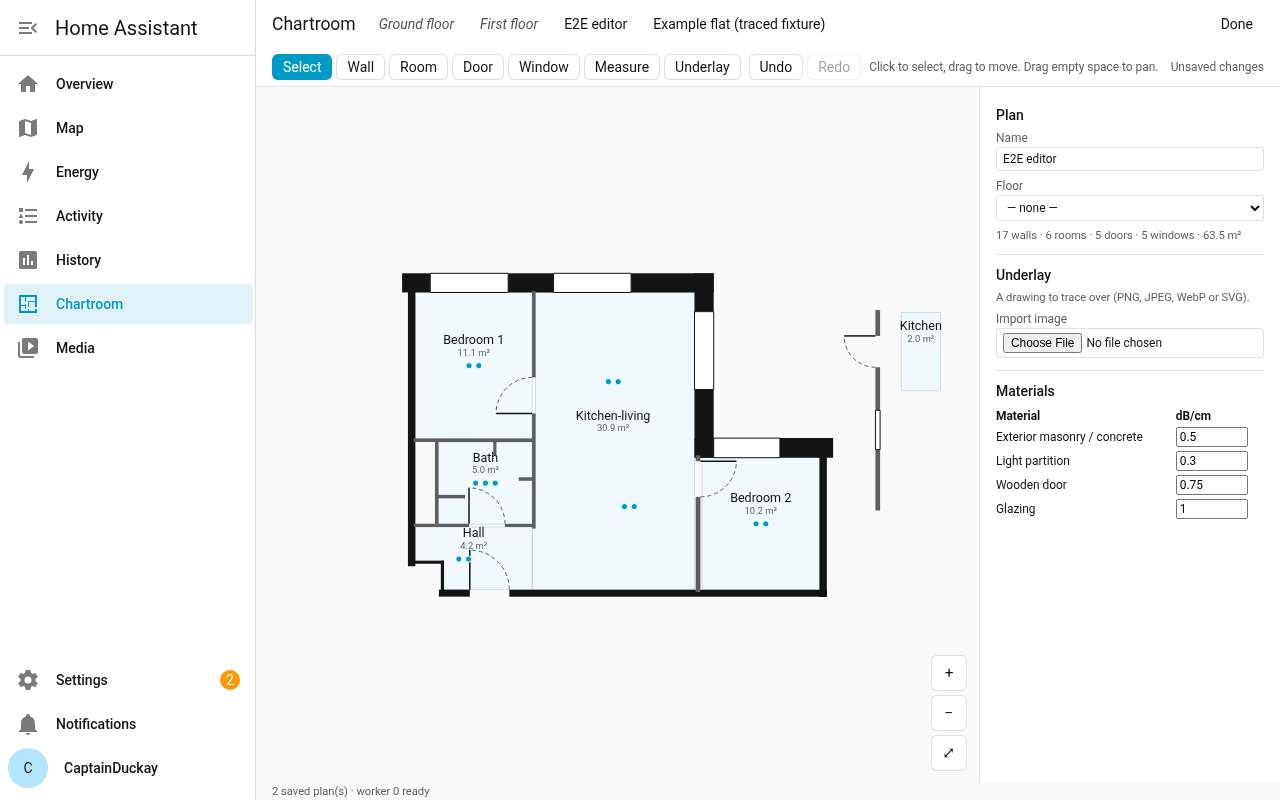
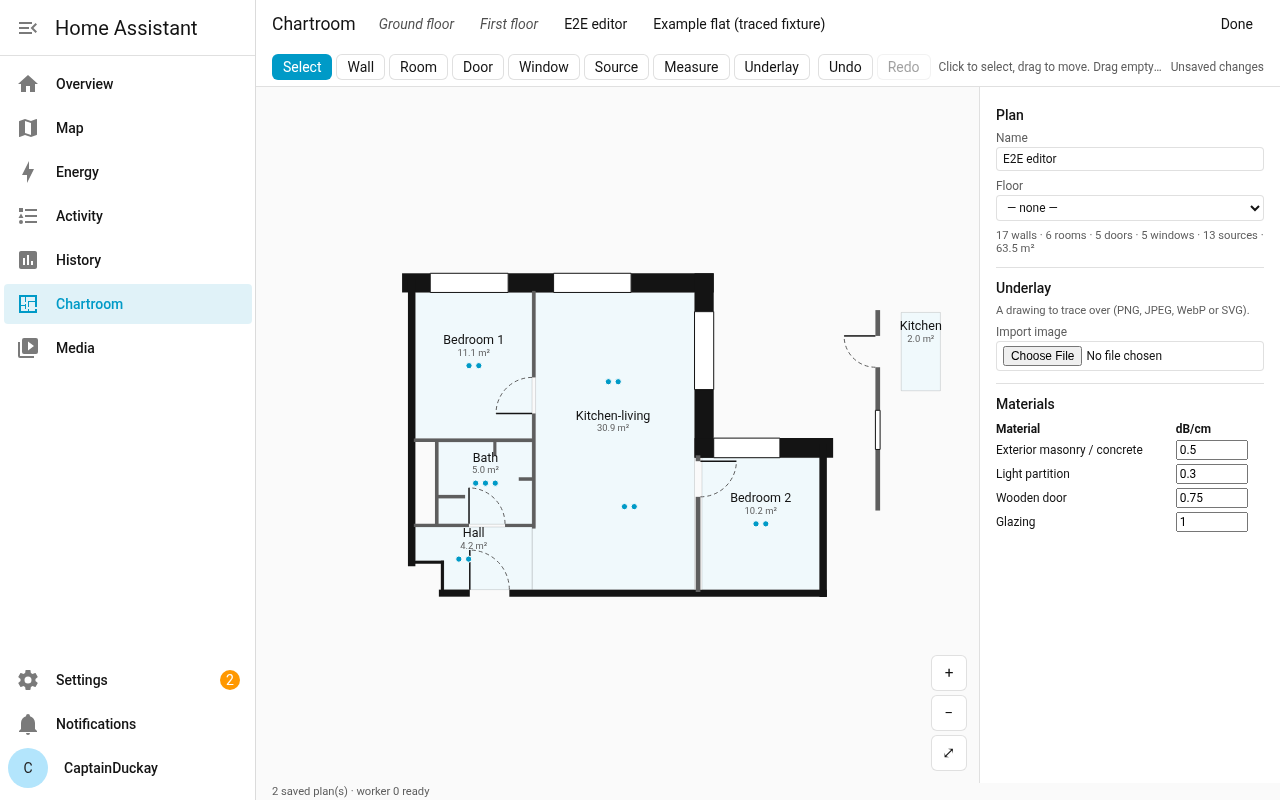
README: Phase 1 complete — sources, underlay in the panel, limit warnings
Screenshots from the e2e run (synthetic grid underlay, traced fixture).

Changed region(s): [[0.7812, 0.3125, 0.9688, 0.6562], [0.4688, 0.0625, 0.9062, 0.0938], [0.9375, 0.2812, 0.9688, 0.3125]]

diff --git a/README.md b/README.md
@@ -3,9 +3,9 @@
 Floor plans for Home Assistant: draw your home once, then see temperature, humidity and Wi-Fi
 signal as live heatmaps over it — in a sidebar panel and as a dashboard card.
 
-> **Status: Phase 1 (plan and editor).** The panel shows one tab per Home Assistant floor, with
-> pan and zoom, and a built-in editor for walls, doors, windows and rooms over an image underlay.
-> Heatmaps come next. See [docs/render-design.md](docs/render-design.md) for how they will be
+> **Status: Phase 1 (plan and editor) is complete.** The panel shows one tab per Home Assistant
+> floor, with pan and zoom and an optional underlay drawing, and a built-in editor for walls,
+> doors, windows, rooms and sensor/signal sources. Heatmaps come next (Phase 2). See [docs/render-design.md](docs/render-design.md) for how they will be
 > rendered.
 
 ![Chartroom panel](docs/images/panel.png)
@@ -22,10 +22,23 @@ without one). Admins only; changes save automatically.
 - **Door** / **Window**: click on a wall. Width, swing and an optional open/closed entity are set
   in the inspector.
 - **Room**: click the corners, double-click to close, then link the room to a Home Assistant area.
+- **Source**: place a temperature/humidity sensor, a Wi-Fi access point or a radio (Zigbee,
+  Z-Wave, Thread…). Sensors are picked from the Home Assistant temperature and humidity sensors in
+  the plan's floor's areas; access points and radios take any entity and a level at 1 m. Drag to
+  move, Delete to remove.
 - **Underlay**: import a PNG, JPEG, WebP or SVG drawing to trace over, then calibrate the scale
-  with **Measure** (two points and their real distance) or by a room's known area.
+  with **Measure** (two points and their real distance) or by a room's known area. In the panel
+  outside the editor, the **Underlay** button and slider hide the drawing or change its opacity
+  (just for you, not saved in the plan).
 - **Undo** / **Redo**: Ctrl+Z and Ctrl+Shift+Z.
 - **Materials**: the loss per centimetre for each wall material, used by the signal heatmap.
+- The outer outline is worked out from the walls; there is no outline tool.
+- A floor with more than 512 walls or 32 access points and radios shows a warning: the heatmaps
+  may be slow on phones and tablets (see [docs/render-design.md](docs/render-design.md)).
+
+![Placing sources in the editor](docs/images/editor-sources.png)
+
+![The panel with an underlay](docs/images/panel-underlay.png)
 
 ![Chartroom card](docs/images/card.png)
 
